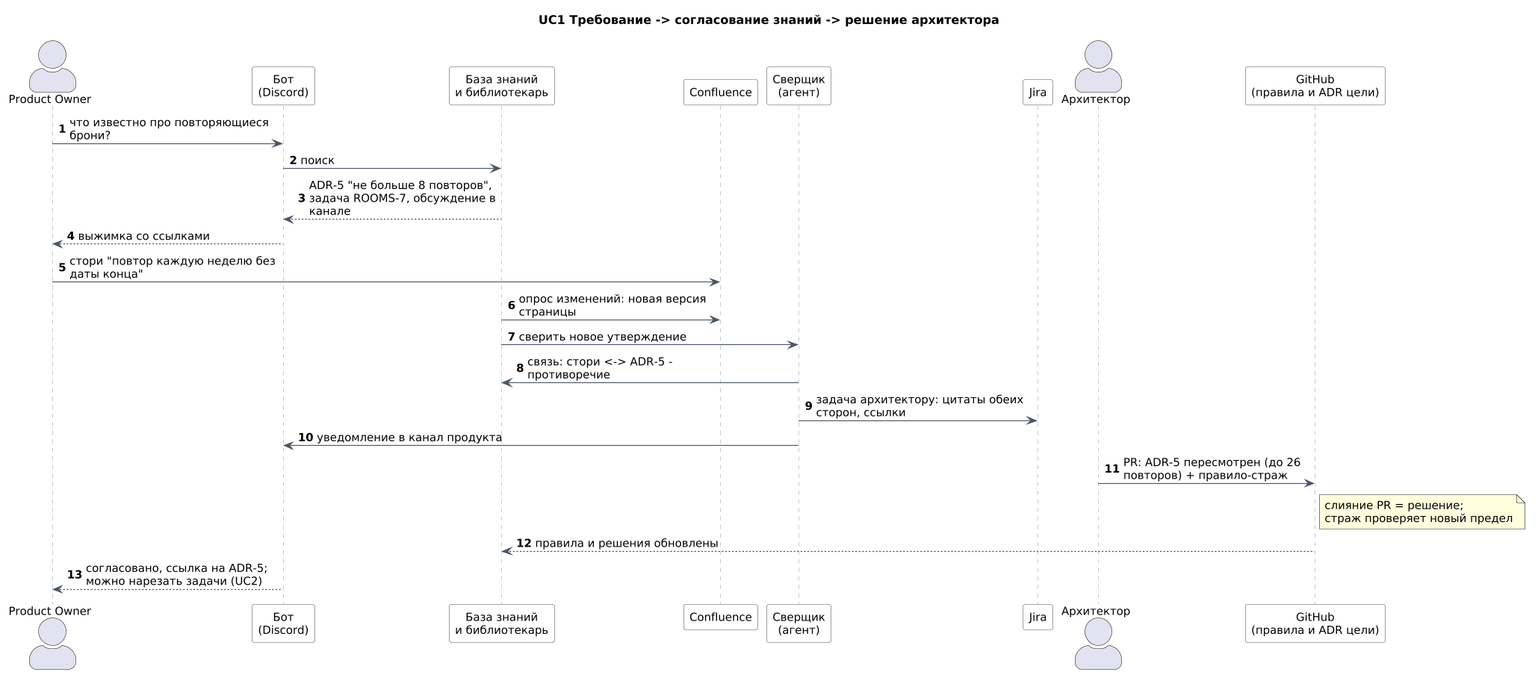
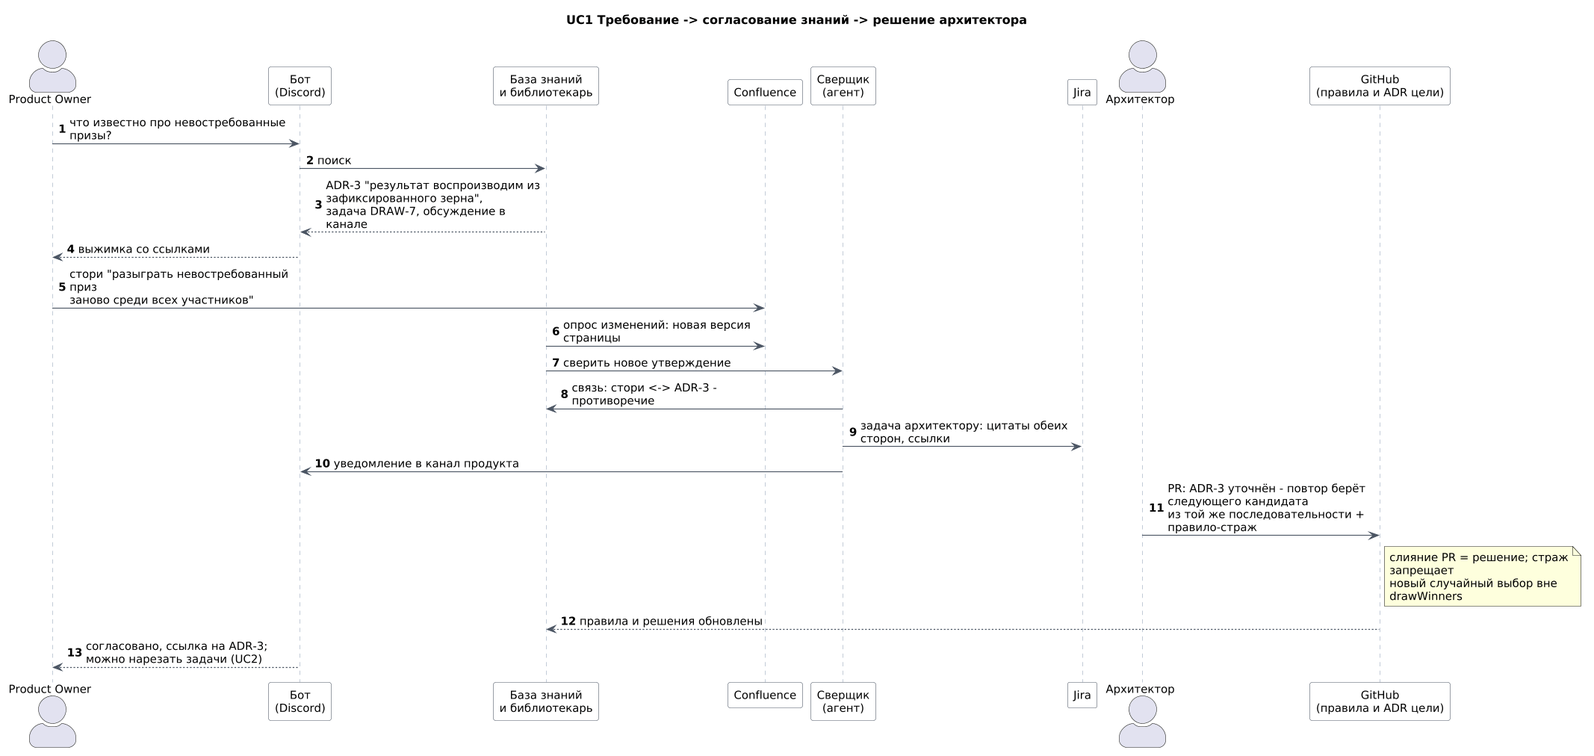
docs: demo target is the prize draw app; platform accounts and tokens guide
Owner choice 14.10.2026: "Prize draw" (github.com/ypolosov/prize-draw) replaces
room booking. platforms.md lists the tokens with minimal rights; secrets stay in .state/.

diff --git a/docs/demo/architecture.md b/docs/demo/architecture.md
@@ -14,36 +14,34 @@
 - **Вопрос архитектуры.** Достаточно ли портов (трекер, хостинг, CI, выкладка, знания), чтобы платформа фабрики и платформа цели менялись независимо.
 - **Пересмотр.** Владелец меняет пилот или инструменты; связка не проходит на стадии 3.
 
-## 2. Целевая система: Переговорки
+## 2. Целевая система: Розыгрыш призов
 
-Простое приложение "фронтенд + бэкенд", где у каждой роли есть естественная работа и есть бизнес-правила, на которых видны стражи и конфликты знаний.
+Простое приложение "фронтенд + бэкенд", где у каждой роли есть естественная работа и есть бизнес-правила, на которых видны стражи и конфликты знаний. Выбор владельца 14.10.2026; запасной вариант - бронирование переговорных.
 
 | Что | Как |
 |---|---|
-| Пользователи | сотрудник ищет свободную переговорную, бронирует и отменяет; администратор заводит переговорные |
-| Фронтенд | TypeScript, React, Vite: календарь переговорных, форма брони, админка |
-| Бэкенд | TypeScript, NestJS, PostgreSQL: переговорные, брони, уведомления в Discord |
-| Правила | R1 брони одной переговорной не пересекаются (ограничение в базе); R2 рабочие часы 08:00-20:00; R3 бронь до 4 часов; R4 участников не больше вместимости; R5 отменяет владелец брони или администратор |
-| Фича демо | повторяющиеся брони: каждая неделя, до N повторов, без пересечений ни в одном повторе |
-| Платформа | GitHub + Actions: сборка, тесты, e2e (Playwright), образы в GHCR; стенд - docker compose на ноутбуке |
+| Пользователи | участник подаёт заявку, смотрит результаты, подтверждает получение приза; организатор создаёт розыгрыш и запускает выбор победителей |
+| Фронтенд | TypeScript, React, Vite: активные розыгрыши, заявка, результаты с проверкой честности, кабинет организатора |
+| Бэкенд | TypeScript, NestJS, PostgreSQL: розыгрыши, заявки, победители, объявления в Discord |
+| Правила | R1 одна заявка от участника на розыгрыш; R2 заявки только в период розыгрыша; R3 участнику 18+; R4 победители выбираются детерминированно из зерна, хэш которого опубликован до конца приёма заявок, - результат может пересчитать любой; R5 не больше одного приза одному участнику в розыгрыше; R6 приз подтверждают за 3 дня, иначе он не востребован |
+| Фича демо | повторный розыгрыш невостребованного приза |
+| Репозиторий и платформа | github.com/ypolosov/prize-draw: GitHub + Actions - сборка, тесты, e2e (Playwright), образы в GHCR; стенд - docker compose на ноутбуке |
 
-Фича "повторяющиеся брони" задевает всех: продукт пишет требование, оно спорит с решением архитектора о пределе повторов, дизайнер рисует экран, разработчики меняют API и экран, QA пишет e2e на пересечения, DevOps выкладывает, эксплуатация ловит сбой, релиз выпускает версию.
-
-Запасной вариант, ближе к предметной области пилота: "Розыгрыш призов" (участники, правила честного розыгрыша, журнал выбора победителей). Выбор - за владельцем.
+Фича задевает всех: продукт хочет "разыграть приз заново среди всех", а это спорит с решением архитектора о воспроизводимом результате (R4, ADR-3); архитектор решает - повтор берёт следующего кандидата из той же последовательности - и добавляет правило-страж; дизайнер рисует экран невостребованного приза; разработчики меняют API и экран; QA пишет e2e "повтор детерминирован, победитель не повторяется"; DevOps настраивает задание проверки сроков; эксплуатация ловит сбой повторного розыгрыша; релиз выпускает версию 1.1.0.
 
 ### Роли в демо
 
 | Роль | Инструмент | Шаг в демо | Режим |
 |---|---|---|---|
-| Product Owner | Discord, Confluence | спрашивает бота о теме; пишет стори про повторы; получает конфликт и решение (UC1) | HITL |
+| Product Owner | Discord, Confluence | спрашивает бота о невостребованных призах; пишет стори про повторный розыгрыш; получает конфликт и решение (UC1) | HITL |
 | Project Manager | Jira, Discord | заметки к дейли из журнала Jira; утверждает нарезку эпика агентом; ставит приоритет бага (UC2, UC6) | HOTL |
-| Архитектор | свой экзокортекс, GitHub | решает конфликт: PR с ADR и правилом-стражем; утверждает правило-кандидат (UC1, UC7) | HITL |
-| Дизайнер | Figma или Confluence | макет экрана повторов; судья сверяет макет с требованиями (UC3) | HOTL |
+| Архитектор | свой экзокортекс, GitHub | решает конфликт: PR с уточнением ADR-3 и правилом-стражем; утверждает правило-кандидат (UC1, UC7) | HITL |
+| Дизайнер | Figma | экран невостребованного приза и страница результатов; судья сверяет макет с требованиями (UC3) | HOTL |
 | Разработчик BE | Claude Code + MCP фабрики | спецификация и сценарии приёмки с агентом; метка agent; ревью PR API (UC4) | HITL, HOOTL |
 | Разработчик FE | Codex или Cursor + MCP фабрики | то же для экрана: другой экзокортекс, те же стражи (UC4) | HITL, HOOTL |
 | QA | GitHub, Discord | сценарии приёмки -> e2e; просит бота перезапустить e2e; проверяет баг (UC4, UC6) | HOTL |
-| DevOps | GitHub, Discord | конфигурация выкладки; подтверждает выкладку (UC5) | HITL |
-| Эксплуатация | Discord | получает сбой, спрашивает бота о связанных PR (UC6) | HOTL |
+| DevOps | GitHub, Discord | задание проверки сроков подтверждения, конфигурация выкладки; подтверждает выкладку (UC5) | HITL |
+| Эксплуатация | Discord | получает сбой повторного розыгрыша, спрашивает бота о связанных PR (UC6) | HOTL |
 | Релиз-менеджер | Discord, GitHub | черновик заметок о выпуске от бота; тег v1.1.0 (UC5) | HITL |
 
 Агенты фабрики: библиотекарь (сбор и выдача знания), сверщик (конфликты, правила-кандидаты), исполнитель (тесты и код), судья-ревьюер (модель другого семейства). Координатор - не агент, а процесс с фазами.
@@ -181,7 +179,7 @@ UC2 (планирование, дейли, учёт времени), UC3 (мак
 | 1 | Архитектура и план | решения 14.10, каталог ролей | это описание: функции, C4, развёртывание, сценарии, DoD, этапы | `docs/demo/` | владелец принял архитектуру и оценку | 3 ч, сделано |
 | 2 | Платформы | учётки владельца (внешний) | Bitbucket: рабочее пространство, репозиторий фабрики, свой раннер; GitHub: репозиторий цели; Jira, Confluence, Discord; токены в `.state/` | платформы доступны | пустой шаг прошёл на своём раннере; задача Jira и PR в GitHub созданы через порты | 2 ч |
 | 3 | Сквозной скелет | 2; адаптеры Jira, GitHub, Bitbucket (РП 23); координатор (РП 24) | задача Jira с меткой -> координатор -> задание на своём раннере -> агент по подписке -> PR в GitHub -> статус стража | один сквозной прогон | PR и статус есть; пуш из шага агента отклонён; нет - разобрать звено и повторить | 10 ч |
-| 4 | Целевая система | 2 | каркас фронтенда и API, правила R1-R4, CI в Actions, образы в GHCR, compose стенда, выкладка | приложение на стенде | e2e "бронь без пересечений" зелёная; слияние выкладывается само | 6 ч |
+| 4 | Целевая система | 2 | каркас фронтенда и API, правила R1-R6, CI в Actions, образы в GHCR, compose стенда, выкладка | приложение на стенде | e2e "одна заявка на участника" и "результат воспроизводим из зерна" зелёные; слияние выкладывается само | 6 ч |
 | 5 | База знаний и стражи | 2, 4 | сборщики Jira, Confluence, GitHub, Discord (Onyx на переходе); правила и ADR в репозитории цели; стражи; MCP фабрики; сверщик | ответы со ссылками, стражи в задании | вопрос в Discord и из экзокортекса - ответ со ссылками; страж ловит нарушение ADR | 8 ч |
 | 6 | Роли и каналы | 3, 4, 5 | бот: вопросы, дейли, перезапуск e2e, уведомления; мост сбоев -> Jira; заметки о выпуске; сценарий по ролям | сценарий демо | у каждой роли есть шаг; прогон без ручных правок | 6 ч |
 | 7 | Генеральный прогон и приёмка | 6 | прогон по сценарию, исправления, отчёт учёта | отчёт демо | DoD демо выполнен, владелец принял | 3 ч |
@@ -194,7 +192,7 @@ UC2 (планирование, дейли, учёт времени), UC3 (мак
 - Agentic Pipelines и Mastra Factory не используются: зависимость от одной платформы дороже, чем свои шаги и свой координатор.
 - Лимиты подписок: прогон демо - 10-20 запусков агентов.
 - Память ноутбука: фабрика, Onyx и стенд цели вместе близки к 24 ГБ.
-- Figma: если учётки нет, шаг дизайнера идёт через страницу Confluence с макетом.
+- Figma на бесплатном плане: до 6-20 чтений файла через API в месяц и 20 вызовов MCP; макет выгружаем картинкой один раз на версию и сверяем с ней.
 
 ## 13. Опора на FPF
 

diff --git a/docs/demo/platforms.md b/docs/demo/platforms.md
@@ -1,0 +1,98 @@
+# Платформы демо: учётки и токены
+
+Стадия 2 из [architecture.md](architecture.md). Токены живут только в `.state/` (каталог не попадает в git), права на файлы - 600. В чат и в аргументы команд токены не попадают. Сроки жизни токенов - не больше года; напоминание о продлении - в календаре.
+
+Создать пустой файл с правильными правами и открыть его в редакторе:
+
+```sh
+install -m 600 /dev/null .state/atlassian.env
+```
+
+## Jira и Confluence
+
+1. Создать проект Jira "Розыгрыш призов" с ключом `DRAW` (шаблон Scrum) и пространство Confluence с ключом `DRAW`.
+2. На https://id.atlassian.com/manage-profile/security/api-tokens выбрать "Create API token with scopes" - два токена, по одному на продукт (у токена с областями один продукт):
+   - `factory-jira`: продукт Jira; области `read:jira-work`, `write:jira-work`, `read:jira-user`;
+   - `factory-confluence`: продукт Confluence; области `read:confluence-content.all`, `read:confluence-space.summary`, `write:confluence-content`, `search:confluence`.
+   Токен с областями ходит через `api.atlassian.com` по идентификатору сайта (cloudId); фабрика узнаёт его сама.
+3. `.state/atlassian.env`:
+
+```sh
+ATLASSIAN_SITE=https://<сайт>.atlassian.net
+ATLASSIAN_EMAIL=<почта учётки>
+JIRA_API_TOKEN=<factory-jira>
+CONFLUENCE_API_TOKEN=<factory-confluence>
+JIRA_PROJECT=DRAW
+CONFLUENCE_SPACE=DRAW
+```
+
+## Bitbucket (платформа фабрики)
+
+1. В рабочем пространстве создать репозиторий `factory` (можно закрытый) и включить Pipelines: Repository settings -> Pipelines -> Settings -> Enable Pipelines.
+2. Токен репозитория: Repository settings -> Security -> Access tokens -> Create. Имя `factory-coordinator`, права: Repositories - Read, Write; Pull requests - Read; Pipelines - Read, Write, Edit variables; Runners - Read. Если пункта Access tokens нет, взять API-токен с областями для Bitbucket на id.atlassian.com (`read:repository:bitbucket`, `write:repository:bitbucket`, `read:pipeline:bitbucket`, `write:pipeline:bitbucket`, `read:runner:bitbucket`). Пароли приложений Bitbucket выведены из работы.
+3. Свой раннер: Repository settings -> Pipelines -> Runners -> Add runner -> Linux Docker (x86_64), имя `laptop`, метка `factory`. Показанную команду **не запускать**: она даёт раннеру Docker хоста. Из неё переписать значения в `.state/bitbucket-runner.env`; фабрика запустит раннер в отдельном Docker заданий.
+4. Файлы:
+
+```sh
+# .state/bitbucket.env
+BITBUCKET_WORKSPACE=<рабочее пространство>
+BITBUCKET_REPO=factory
+BITBUCKET_TOKEN=<factory-coordinator>
+
+# .state/bitbucket-runner.env - значения из команды добавления раннера
+ACCOUNT_UUID={...}
+REPOSITORY_UUID={...}
+RUNNER_UUID={...}
+OAUTH_CLIENT_ID=...
+OAUTH_CLIENT_SECRET=...
+```
+
+## GitHub (платформа цели)
+
+Репозиторий цели: https://github.com/ypolosov/prize-draw, открытый - Actions без лимита минут, образы GHCR открытые, выкладке не нужен токен реестра.
+
+Два токена (fine-grained) на https://github.com/settings/personal-access-tokens/new, владелец `ypolosov`, срок 90 дней, Repository access - Only select repositories - `prize-draw`:
+
+- `factory-read` - для шагов агента: Contents, Pull requests, Commit statuses, Actions - Read-only;
+- `factory-publish` - для шага публикации: Contents, Pull requests, Commit statuses - Read and write; Actions - Read-only. Workflows - **No access**: фабрика не может менять CI цели, это делают только люди.
+
+```sh
+# .state/github-target.env
+GITHUB_TARGET_REPO=ypolosov/prize-draw
+GITHUB_READ_TOKEN=<factory-read>
+GITHUB_PUBLISH_TOKEN=<factory-publish>
+```
+
+## Discord
+
+1. Сервер команды с каналами `#продукт`, `#разработка`, `#эксплуатация`, `#релизы`, `#розыгрыши`.
+2. User Settings -> Advanced -> Developer Mode; правый клик по серверу -> Copy Server ID.
+3. https://discord.com/developers/applications -> New Application `Factory`:
+   - General Information -> Application ID;
+   - Bot -> Reset Token -> скопировать токен; Public Bot - выключить; Privileged Gateway Intents - включить Message Content Intent (библиотекарь читает каналы для базы знаний).
+4. OAuth2 -> URL Generator: scopes `bot` и `applications.commands`; права бота - View Channels, Send Messages, Send Messages in Threads, Read Message History, Embed Links, Attach Files. Открыть ссылку, выбрать сервер, Authorize.
+5. Вебхук приложения (объявление победителей): канал `#розыгрыши` -> Edit Channel -> Integrations -> Webhooks -> New Webhook -> Copy Webhook URL.
+
+```sh
+# .state/discord.env
+DISCORD_APPLICATION_ID=...
+DISCORD_BOT_TOKEN=...
+DISCORD_GUILD_ID=...
+DISCORD_DRAW_WEBHOOK_URL=...
+```
+
+## Figma (шаг дизайнера)
+
+Бесплатного плана хватит, если не гонять API: чтение файла бесплатной команды через REST - до 6-20 запросов в месяц на основные методы, MCP Figma - 20 вызовов в месяц. Поэтому макет выгружается картинкой один раз на версию, и сверка идёт с картинкой. Лимиты считаются по команде, которой принадлежит файл.
+
+Токен: Figma -> Settings -> Security -> Personal access tokens -> Generate new token, срок 90 дней, область File content - Read-only.
+
+```sh
+# .state/figma.env
+FIGMA_TOKEN=...
+FIGMA_FILE_KEY=<из адреса figma.com/design/<KEY>/...>
+```
+
+## Проверка
+
+После "положил" фабрика проверяет только наличие файлов и делает пробные запросы на чтение (кто я, доступ к проекту, к репозиторию, к серверу), значения не печатаются.
